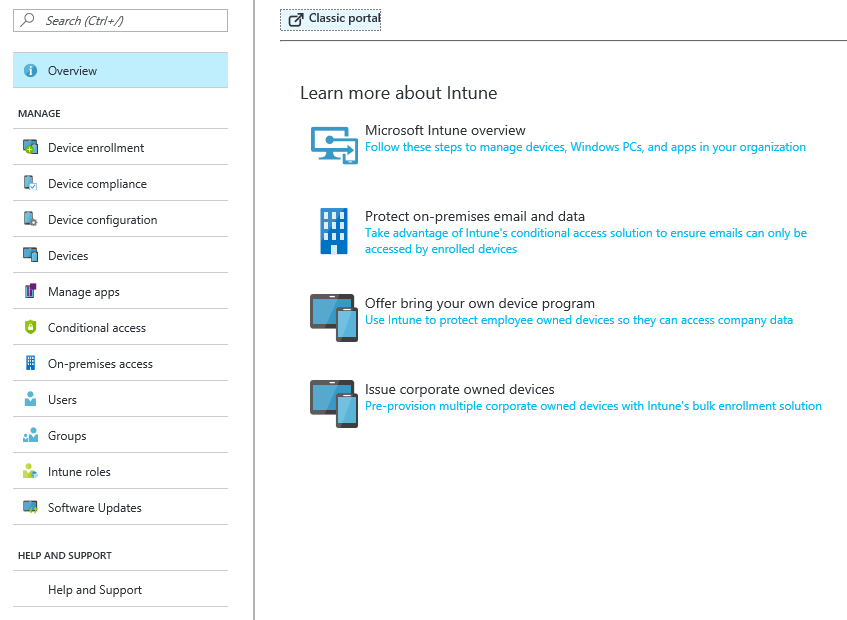
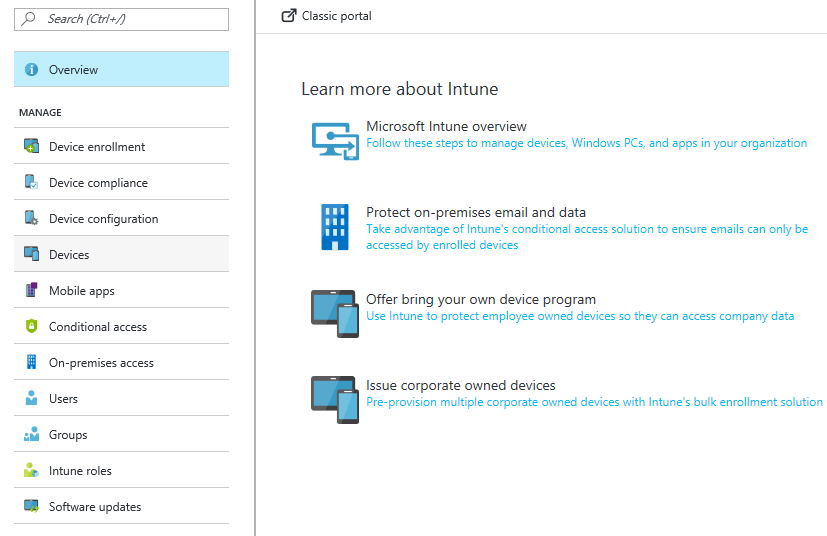
Updates to reflect new workload names

diff --git a/intune-azure/introduction/what-is-microsoft-intune.md b/intune-azure/introduction/what-is-microsoft-intune.md
@@ -7,7 +7,7 @@ keywords:
 author: robstackmsft
 ms.author: robstack
 nmanager: angrobe
-ms.date: 03/15/2017
+ms.date: 04/24/2017
 ms.topic: get-started-article
 ms.prod:
 ms.service: microsoft-intune
@@ -84,20 +84,26 @@ This section contains information about [what's new](/intune-azure/introduction/
 Information to help you [plan and design](/intune-azure/plan-and-design/get-started) your Intune environment.
 ### Device enrollment
 [How to get your devices managed by Intune](/intune-azure/enroll-devices/what-is).
-### Devices
-[Get to know the devices you manage with inventory and reports](/intune-azure/manage-devices/what-is).
-### Manage users and groups
-[Learn about the users of devices you manage and sort resources into groups](/intune-azure/manage-users/what-is).
-### Manage apps
-[How to publish, manage, configure, and protect apps](/intune-azure/manage-apps/what-is-app-management).
-### Device configuration
-[Understand the profiles you can use to configure settings and features on devices you manage](/intune-azure/configure-devices/what-are-device-profiles).
 ### Device compliance
 [Define a compliance level for your devices, then report about any devices which are not compliant](/intune-azure/set-device-compliance/what-is-device-compliance).
+### Device configuration
+[Understand the profiles you can use to configure settings and features on devices you manage](/intune-azure/configure-devices/what-are-device-profiles).
+### Devices
+[Get to know the devices you manage with inventory and reports](/intune-azure/manage-devices/what-is).
+### Mobile apps
+[How to publish, manage, configure, and protect apps](/intune-azure/manage-apps/what-is-app-management).
 ### Conditional access
 [Restrict access to Exchange services depending on conditions you specify](/intune-azure/conditional-access/what-is-conditional-access).
+### On-premises access
+[Configure access to Exchange ActiveSync, and Exchange on-premises](/intune/deploy-use/mobile-device-management-with-exchange-activesync-and-microsoft-intune)
+### Users
+[Learn about the users of devices you manage and sort resources into groups](/intune-azure/manage-users/what-is).
+### Groups
+[Learn about how you can use Azure Active Directory groups with Intune](/intune-azure/manage-users/get-started-with-groups)
 ### Intune roles
 [Control who can perform various Intune actions, and who those actions apply to](/intune-azure/access-control/role-based-access-control). You can either use the built-in roles that cover some common Intune scenarios, or you can create your own roles.
+### Software updates
+[Learn about how to configure software updates for Windows 10 devices](/intune-azure/configure-devices/how-to-configure-windows-update-for-business).
 
 
 

diff --git a/intune-azure/manage-apps/ios-vpp-apps.md b/intune-azure/manage-apps/ios-vpp-apps.md
@@ -8,7 +8,7 @@ keywords:
 author: robstackmsft
 ms.author: robstack
 manager: angrobe
-ms.date: 04/19/2017
+ms.date: 04/24/2017
 ms.topic: article
 ms.prod:
 ms.service: microsoft-intune
@@ -57,8 +57,8 @@ Before you start, you'll need to get a VPP token from Apple and upload this to y
 
 1. Sign into the Azure portal.
 2. Choose **More Services** > **Other** > **Intune**.
-3. On the **Intune** blade, choose **Manage apps**.
-1.  In the **Manage Apps** workload, choose **Setup** > **iOS VPP Tokens**.
+3. On the **Intune** blade, choose **Mobile apps**.
+1.  In the **Mobile Apps** workload, choose **Setup** > **iOS VPP Tokens**.
 2.  On the list of VPP tokens blade, click **Add**.
 3.  On the New VPP Token blade, specify the following information:
 	- **VPP token file** - If you haven't already, sign up for the Volume Purchase Program for Business or the Volume Purchase Program for Education. After you sign up, download the Apple VPP token for your account and select it here.
@@ -73,7 +73,7 @@ You can synchronize the data held by Apple with Intune at any time by choosing *
 
 ## To assign a volume-purchased app
 
-1. In the **Manage Apps** workload, choose **Manage** > **Licensed Apps**.
+1. In the **Mobile Apps** workload, choose **Manage** > **Licensed Apps**.
 2. On the list of apps blade, choose the app you want to assign, and then choose '**...**' > **Assign Groups**.
 3. On the <*app name*> - **Groups Assigned** blade, choose **Manage** > **Groups Assigned**.
 4. Choose **Assign Groups** then, on the **Select groups** blade, choose the Azure AD user or device groups to which you want to assign the app.

diff --git a/intune-azure/manage-apps/wsfb-apps.md b/intune-azure/manage-apps/wsfb-apps.md
@@ -7,7 +7,7 @@ keywords:
 author: robstackmsft
 ms.author: robstack
 manager: angrobe
-ms.date: 02/15/2017
+ms.date: 04/24/2017
 ms.topic: article
 ms.prod:
 ms.service: microsoft-intune
@@ -61,7 +61,7 @@ You can now continue, and set up synchronization in the Intune console.
 
 1. Sign into the Azure portal.
 2. Choose **More Services** > **Other** > **Intune**.
-3. On the **Intune** blade, choose **Manage apps**.
+3. On the **Intune** blade, choose **Mobile apps**.
 1. On the **Mobile Apps** blade, choose **Setup** > **Windows Store for Business**.
 2. Click **Enable**.
 3. If you haven't already done so, click the link to sign-up for the Windows Store for Business and associate your account as detailed previously.
@@ -70,7 +70,7 @@ You can now continue, and set up synchronization in the Intune console.
 
 ## Synchronize apps
 
-1. In the **Manage apps** workload, choose **Setup** > **Windows Store for Business**.
+1. In the **Mobile apps** workload, choose **Setup** > **Windows Store for Business**.
 2. Click **Sync** to get the apps you've purchased from the Windows Store into Intune.
 
 ## Assign apps

diff --git a/intune-azure/manage-apps/company-portal-app.md b/intune-azure/manage-apps/company-portal-app.md
@@ -34,7 +34,7 @@ The Microsoft Intune company portal is where users access company data and can d
 > [!Tip]
 > When you customize the Company Portal, the configurations apply to both the Company Portal website and Company Portal apps.
 
-Customizing the Company Portal helps provide a familiar and helpful experience for your end users. To do it, from the **Manage apps** workload, choose  **Setup** > **Company Portal Branding**, then configure the required settings.
+Customizing the Company Portal helps provide a familiar and helpful experience for your end users. To do it, from the **Mobile apps** workload, choose  **Setup** > **Company Portal Branding**, then configure the required settings.
 
 ## Company contact information and privacy statement
 The company name is displayed as the Company Portal title. The contact information and details are displayed to users in the **Contact IT** screen of the Company Portal. The privacy statement is displayed when a user clicks on the privacy link.

diff --git a/intune-azure/manage-apps/app-protection-policies.md b/intune-azure/manage-apps/app-protection-policies.md
@@ -7,7 +7,7 @@ keywords:
 author: NathBarn
 ms.author: nathbarn
 manager: angrobe
-ms.date: 12/07/2016
+ms.date: 04/24/2017
 ms.topic: article
 ms.prod:
 ms.service: microsoft-intune
@@ -34,7 +34,7 @@ ms.custom: intune-azure
 App protection policies can be applied to apps running on devices that may or may not be managed by Intune. For a more detailed description of how app protection policies work and the scenarios supported by Intune app protection policies, see [What is Microsoft Intune app protection policies](what-is-app-protection-policy.md).
 
 ##  Create an app protection policy
-1.  In the **Manage apps** workload, choose **Manage** > **App protection policies**.
+1.  In the **Mobile apps** workload, choose **Manage** > **App protection policies**.
 
 2.  This opens the **App protection policies** blade, where you'll create new policies and edit existing policies. Choose **Add a policy**.
 

diff --git a/intune-azure/manage-apps/deploy-apps.md b/intune-azure/manage-apps/deploy-apps.md
@@ -7,7 +7,7 @@ keywords:
 author: robstackmsft
 ms.author: robstack
 manager: angrobe
-ms.date: 02/15/2017
+ms.date: 04/18/2017
 ms.topic: article
 ms.prod:
 ms.service: microsoft-intune
@@ -79,8 +79,8 @@ You must make any changes to groups in the [Azure Portal](https://portal.azure.c
 
 1. Sign into the Azure portal.
 2. Choose **More Services** > **Monitoring + Management** > **Intune**.
-3. On the **Intune** blade, choose **Manage apps**.
-1. In the **Manage Apps** workload, choose **Manage** > **Apps**.
+3. On the **Intune** blade, choose **Mobile apps**.
+1. In the **Mobile Apps** workload, choose **Manage** > **Apps**.
 2. On the list of apps blade, click the app you want to assign.
 3. On the <*app name*> - **Overview** blade, choose **Manage** > **Assignments**.
 4. Choose **Select Groups** then, on the **Select groups** blade, choose the Azure AD groups to which you want to assign the app.

diff --git a/intune-azure/manage-apps/app-configuration-policies.md b/intune-azure/manage-apps/app-configuration-policies.md
@@ -7,7 +7,7 @@ keywords:
 author: robstackmsft
 ms.author: robstack
 manager: angrobe
-ms.date: 02/15/2017
+ms.date: 04/24/2017
 ms.topic: article
 ms.prod:
 ms.service: microsoft-intune
@@ -57,8 +57,8 @@ You do not assign these policies directly to users and devices. Instead, you ass
 
 1. Sign into the Azure portal.
 2. Choose **More Services** > **Other** > **Intune**.
-3. On the **Intune** blade, choose **Manage apps**.
-1.  In the **Manage apps** workload, choose **Manage** > **App Configuration Policies**.
+3. On the **Intune** blade, choose **Mobile apps**.
+1.  In the **Mobile apps** workload, choose **Manage** > **App Configuration Policies**.
 
 2.  In the list of policies blade, choose **Add**.
 

diff --git a/intune-azure/manage-apps/monitor-app-protection-policies-with-microsoft-intune.md b/intune-azure/manage-apps/monitor-app-protection-policies-with-microsoft-intune.md
@@ -46,8 +46,8 @@ There are three different places to monitor the compliance status:
 
 1. Sign into the Azure portal.
 2. Choose **More Services** > **Other** > **Intune**.
-3. On the **Intune** blade, choose **Manage apps**.
-4. In the **Manage apps** workload, choose **Monitor** > **App protection user status**, to see the summary view:
+3. On the **Intune** blade, choose **Mobile apps**.
+4. In the **Mobile apps** workload, choose **Monitor** > **App protection user status**, to see the summary view:
 
 ![Summary tile on the Intune mobile application management blade](../media/app-protection-user-status-summary.png)
 
